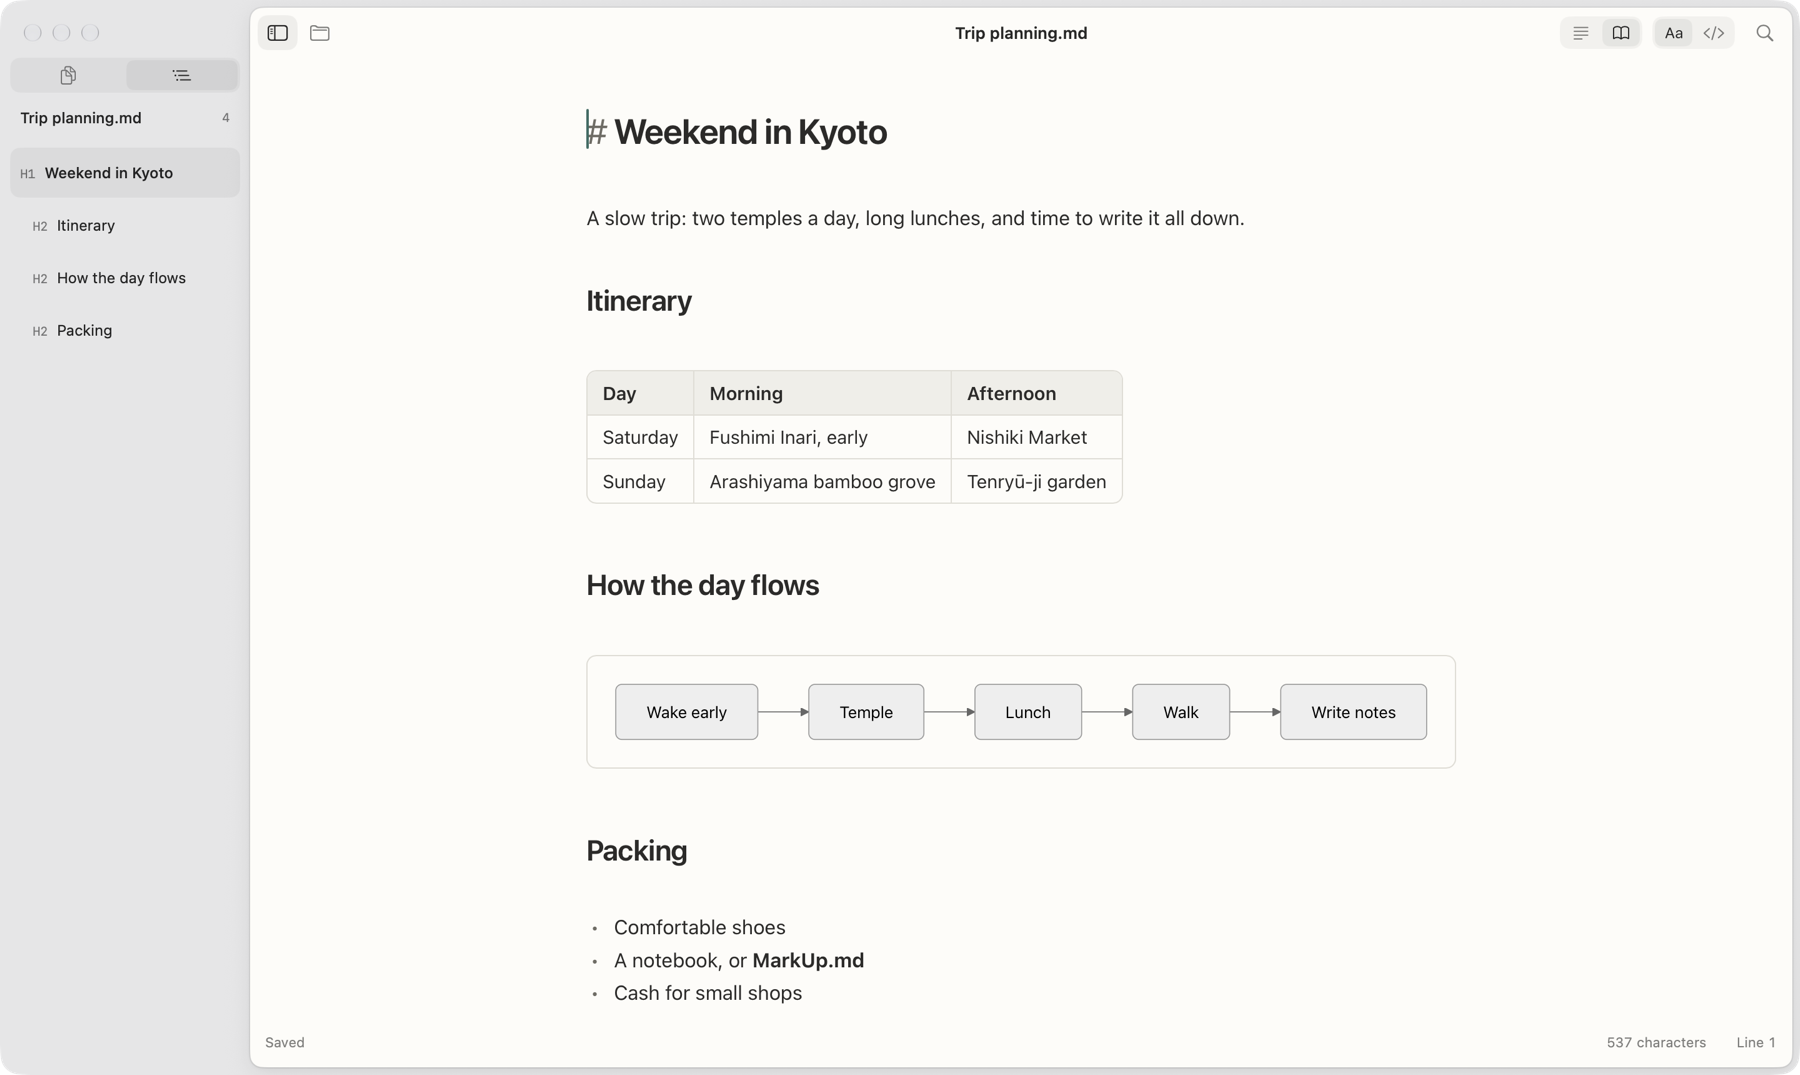
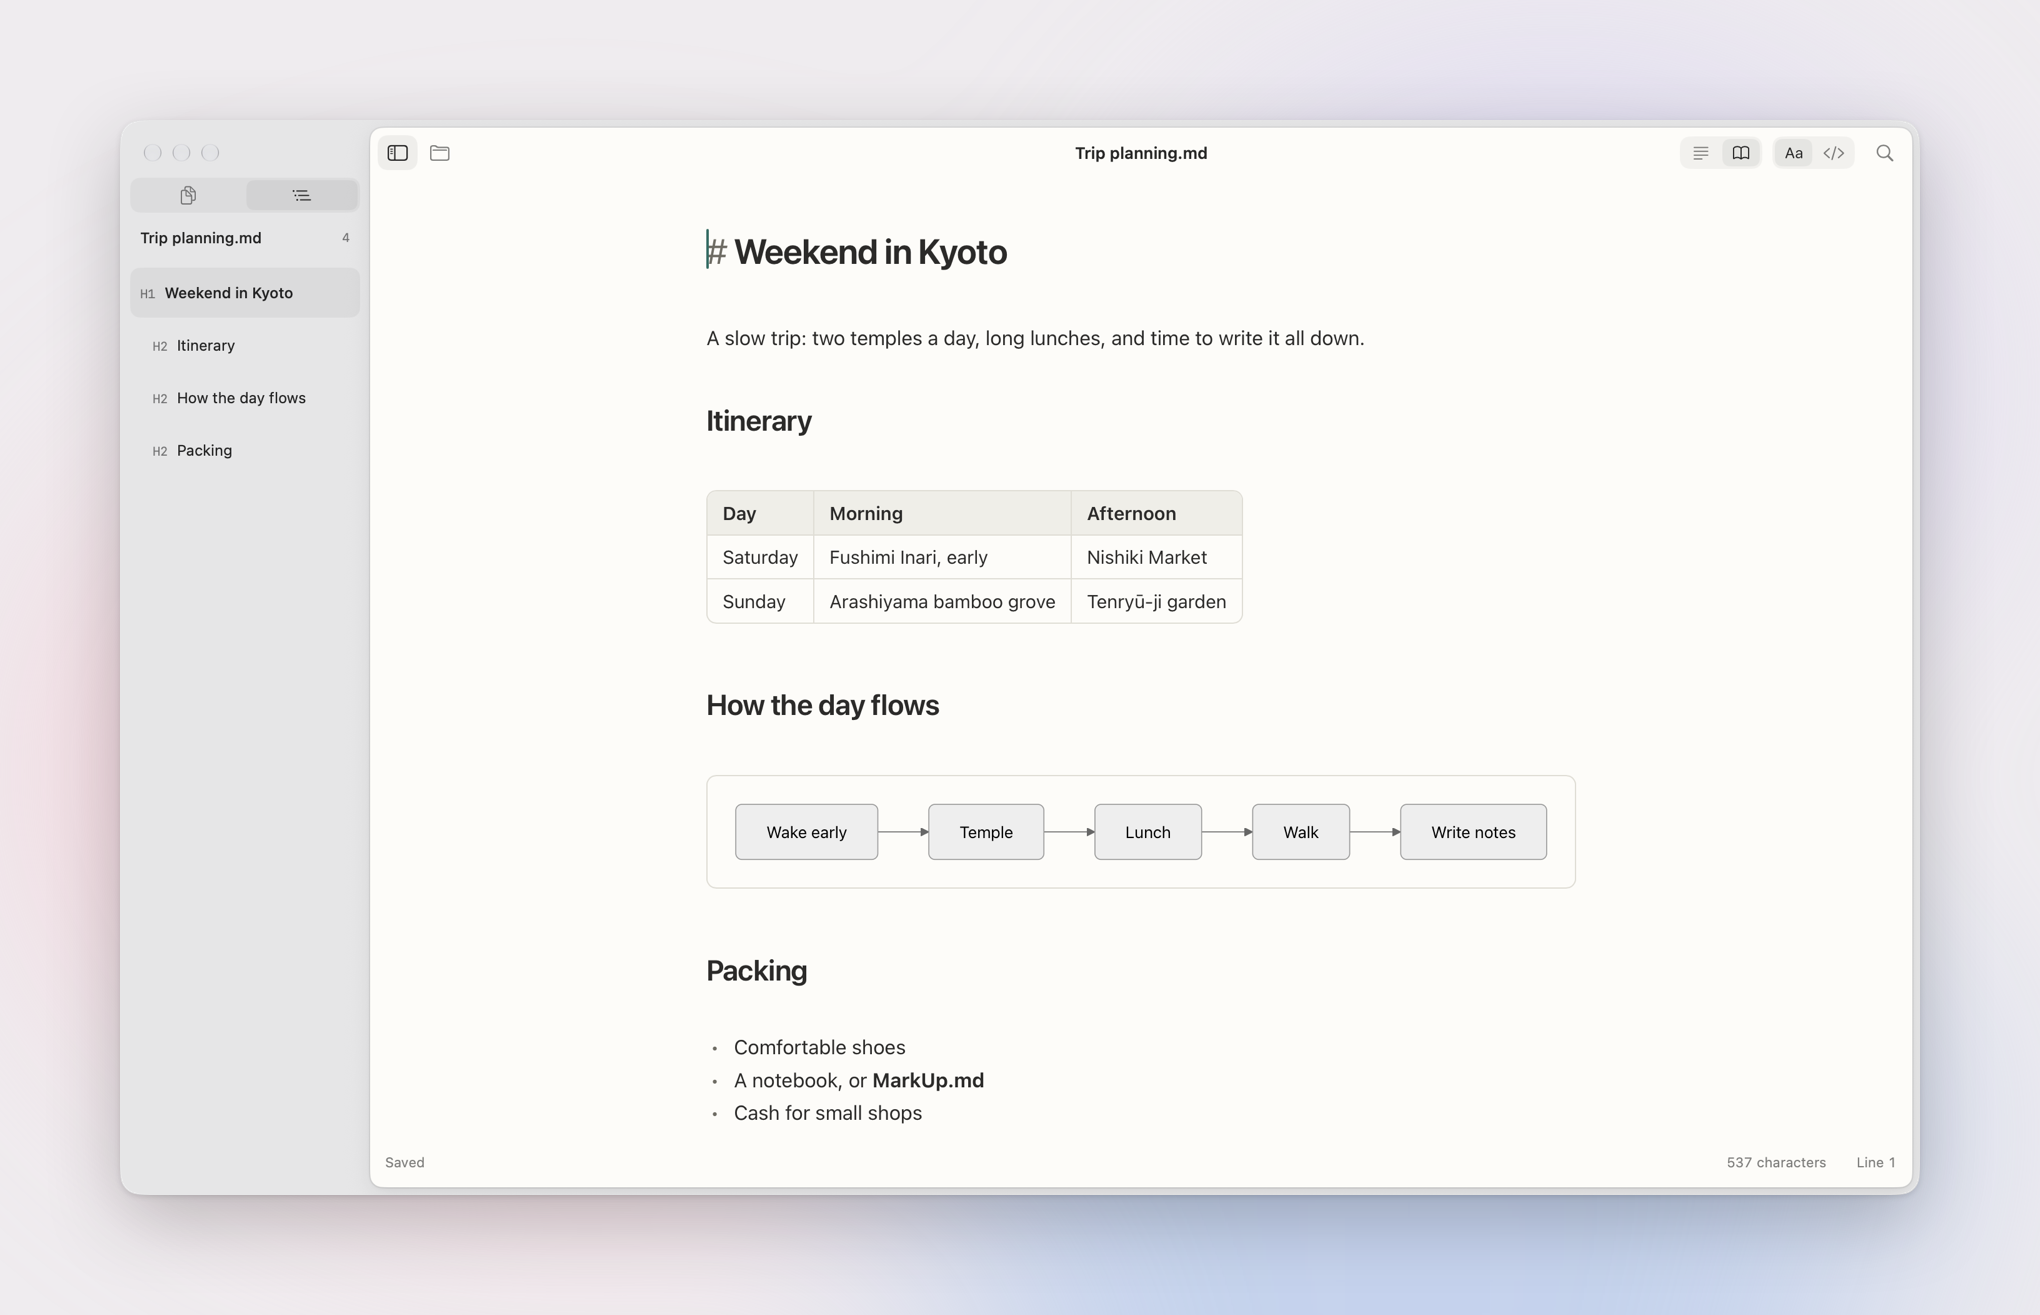
Auto-save, Resource-card installer window, README images on the light wallpaper

diff --git a/scripts/make-dmg-background.swift b/scripts/make-dmg-background.swift
@@ -1,29 +1,23 @@
-// Draws the installer window background: two raised pads (the app, the Applications folder) with an arrow between
-// them. Writes background.png (660×400) and background@2x.png (1320×800) into the given folder.
+// Draws the installer window background from the Figma "Resource card": a paper card with a teal rim, an open
+// stage where Finder shows the app and the Applications folder, then the instruction and the first-open note.
+// Writes background.png (612×416) and background@2x.png (1224×832) into the given folder.
 // Usage: swift scripts/make-dmg-background.swift <output folder>
 import AppKit
 
-let size = NSSize(width: 660, height: 400)
+// The card is drawn at half its Figma size (1224×831 at 2x).
+let size = NSSize(width: 612, height: 416)
 /// Icon centers, in window coordinates (origin top-left). package.sh positions the Finder icons at the same points.
-let appCenter = CGPoint(x: 170, y: 196)
-let folderCenter = CGPoint(x: 490, y: 196)
+let appCenter = CGPoint(x: 170, y: 160)
+let folderCenter = CGPoint(x: 442, y: 160)
 
-// The editor's neutrals (Editor/style.css, light): one warm hue, with the accent teal for the arrow.
 func color(_ hex: UInt32, _ alpha: CGFloat = 1) -> NSColor {
     NSColor(srgbRed: CGFloat((hex >> 16) & 0xff) / 255, green: CGFloat((hex >> 8) & 0xff) / 255, blue: CGFloat(hex & 0xff) / 255, alpha: alpha)
 }
-let paper = color(0xfdfcf9), pad = color(0xf7f5f0), ink = color(0x2f2e2c), muted = color(0x75726c), accent = color(0x3b6b66)
+let paper = color(0xfcfcf9), teal = color(0x3f5958)
 
 func serif(_ pointSize: CGFloat) -> NSFont {
     let base = NSFont.systemFont(ofSize: pointSize, weight: .regular)
     return base.fontDescriptor.withDesign(.serif).flatMap { NSFont(descriptor: $0, size: pointSize) } ?? base
-}
-
-func text(_ string: String, font: NSFont, color: NSColor, centerX: CGFloat, top: CGFloat) {
-    let attributes: [NSAttributedString.Key: Any] = [.font: font, .foregroundColor: color]
-    let s = NSAttributedString(string: string, attributes: attributes)
-    let w = s.size().width
-    s.draw(at: NSPoint(x: centerX - w / 2, y: top))
 }
 
 func render(scale: Int) -> Data {
@@ -31,43 +25,37 @@ func render(scale: Int) -> Data {
     rep.size = size   // points, so the 2x image carries 144 dpi
     let context = NSGraphicsContext(bitmapImageRep: rep)!
     NSGraphicsContext.saveGraphicsState()
-    NSGraphicsContext.current = context
     let cg = context.cgContext
     // Draw with a top-left origin, like Finder's window coordinates.
     cg.translateBy(x: 0, y: size.height); cg.scaleBy(x: 1, y: -1)
-    let flipped = NSGraphicsContext(cgContext: cg, flipped: true)
-    NSGraphicsContext.current = flipped
+    NSGraphicsContext.current = NSGraphicsContext(cgContext: cg, flipped: true)
 
-    paper.setFill(); NSRect(origin: .zero, size: size).fill()
+    // Behind the card's rounded corners, the window's own corners show the rim color.
+    teal.setFill(); NSRect(origin: .zero, size: size).fill()
+    // Rim: 3pt, with the paper inset by it and its corner concentric (20pt outer, 17pt inner).
+    let inner = NSRect(origin: .zero, size: size).insetBy(dx: 3, dy: 3)
+    paper.setFill(); NSBezierPath(roundedRect: inner, xRadius: 17, yRadius: 17).fill()
 
-    // Pads: a ring in place of a border, and a soft lift, with the card's concentric corner logic (24pt outer).
-    for center in [appCenter, folderCenter] {
-        let rect = CGRect(x: center.x - 100, y: center.y - 104, width: 200, height: 208)
-        let shape = NSBezierPath(roundedRect: rect, xRadius: 24, yRadius: 24)
-        cg.saveGState()
-        cg.setShadow(offset: CGSize(width: 0, height: -4), blur: 14, color: NSColor.black.withAlphaComponent(0.06).cgColor)
-        pad.setFill(); shape.fill()
-        cg.restoreGState()
-        cg.saveGState()
-        cg.setShadow(offset: CGSize(width: 0, height: -1), blur: 1.5, color: NSColor.black.withAlphaComponent(0.05).cgColor)
-        pad.setFill(); shape.fill()
-        cg.restoreGState()
-        NSColor.black.withAlphaComponent(0.06).setStroke()
-        let ring = NSBezierPath(roundedRect: rect.insetBy(dx: -0.5, dy: -0.5), xRadius: 24.5, yRadius: 24.5)
-        ring.lineWidth = 1; ring.stroke()
-    }
+    // Stage (320pt), then the 2pt divider in the rim color.
+    let stageBottom: CGFloat = 3 + 320
+    teal.setFill(); NSRect(x: 3, y: stageBottom, width: inner.width, height: 2).fill()
 
-    // Arrow: a round-capped line with an open chevron head, in the accent.
-    let y = appCenter.y - 4
-    let from: CGFloat = 288, to: CGFloat = 372
-    accent.setStroke()
-    let line = NSBezierPath(); line.lineWidth = 5; line.lineCapStyle = .round; line.lineJoinStyle = .round
-    line.move(to: NSPoint(x: from, y: y)); line.line(to: NSPoint(x: to, y: y)); line.stroke()
-    let head = NSBezierPath(); head.lineWidth = 5; head.lineCapStyle = .round; head.lineJoinStyle = .round
-    head.move(to: NSPoint(x: to - 15, y: y - 15)); head.line(to: NSPoint(x: to, y: y)); head.line(to: NSPoint(x: to - 15, y: y + 15)); head.stroke()
+    // Title, in the welcome screen's serif rather than the card's SF Pro.
+    let title = NSAttributedString(string: "Drag MarkUp.md to Applications", attributes: [.font: serif(23), .foregroundColor: teal])
+    title.draw(at: NSPoint(x: 3 + 31, y: stageBottom + 2 + 10))
 
-    text("Drag MarkUp.md to Applications", font: serif(26), color: ink, centerX: size.width / 2, top: 34)
-    text("First time opening? macOS asks for approval: System Settings → Privacy & Security → Open Anyway.", font: .systemFont(ofSize: 12), color: muted, centerX: size.width / 2, top: 356)
+    // Hairline rule, then the first-open note.
+    let ruleY = stageBottom + 2 + 46.5
+    color(0x000000, 0.15).setFill(); NSRect(x: 3, y: ruleY, width: inner.width, height: 0.5).fill()
+    // 11.5pt semibold in the card; stepped down until it fits between the side margins.
+    let noteText = "First time opening? macOS asks for approval: System Settings → Privacy & Security → Open Anyway."
+    var noteSize: CGFloat = 11.5
+    var note: NSAttributedString
+    repeat {
+        note = NSAttributedString(string: noteText, attributes: [.font: NSFont.systemFont(ofSize: noteSize, weight: .semibold), .foregroundColor: teal])
+        noteSize -= 0.25
+    } while note.size().width > inner.width - 62 && noteSize > 9
+    note.draw(at: NSPoint(x: 3 + 31, y: ruleY + 12))
 
     NSGraphicsContext.restoreGraphicsState()
     return rep.representation(using: .png, properties: [:])!

diff --git a/Sources/MarkUp/MarkUpApp.swift b/Sources/MarkUp/MarkUpApp.swift
@@ -32,6 +32,9 @@ struct MarkUpApp: App {
                 }
                 Text(document.tr("System menus and dialogs update after restarting MarkUp.md.", "系统菜单和对话框将在重新启动 MarkUp.md 后更新。"))
                     .font(.caption).foregroundStyle(.secondary)
+                Toggle(document.tr("Save changes automatically", "自动保存更改"), isOn: $document.autoSave)
+                Text(document.tr("Files you’ve saved once keep saving as you write. New documents still ask where to go.", "保存过的文件会在你写作时自动保存。新文稿仍需选择保存位置。"))
+                    .font(.caption).foregroundStyle(.secondary)
             }.padding(24).frame(width: 400)
                 .environment(\.locale, Locale(identifier: document.language.rawValue))
         }
@@ -250,6 +253,13 @@ final class EditorDocument: NSObject, ObservableObject, WKScriptMessageHandler, 
     private var bridgeReady = false
     private var pendingPresentation = false
     private var diskData: Data?
+    /// On by default: a document with a file saves itself shortly after typing stops, and before it is left.
+    @Published var autoSave = UserDefaults.standard.object(forKey: "autoSave") as? Bool ?? true {
+        didSet { UserDefaults.standard.set(autoSave, forKey: "autoSave") }
+    }
+    private var pendingAutoSave: Task<Void, Never>?
+    /// Typing pauses this long before a save, so a burst of keys writes once.
+    private static let autoSaveDelay: Duration = .seconds(1)
     private var composing = false
     var dirty: Bool { text != savedText }
     var title: String { fileURL?.lastPathComponent ?? tr("Untitled", "未命名") }
@@ -268,7 +278,7 @@ final class EditorDocument: NSObject, ObservableObject, WKScriptMessageHandler, 
                     drainOpenRequests()
                 } catch { report(error) }
             }
-        case "change": text = body["text"] as? String ?? text; updateTitle()
+        case "change": text = body["text"] as? String ?? text; updateTitle(); scheduleAutoSave()
         case "selection": line = body["line"] as? Int ?? 1
         case "outline":
             headings = (body["headings"] as? [[String: Any]] ?? []).compactMap {
@@ -413,6 +423,10 @@ final class EditorDocument: NSObject, ObservableObject, WKScriptMessageHandler, 
     func confirmDiscard() async -> Bool {
         do { _ = try await snapshot() } catch { report(error); return false }
         guard dirty else { return true }
+        // Leaving a file-backed document saves it, unless another app changed the file; then the user decides.
+        if canAutoSave {
+            do { if try await write() { return true } } catch { report(error); return false }
+        }
         let alert = NSAlert(); alert.messageText = tr("Save changes to “\(title)”?", "要保存对“\(title)”的修改吗？"); alert.informativeText = tr("Your unsaved changes will be lost.", "未保存的修改将会丢失。"); alert.addButton(withTitle: tr("Save", "保存")); alert.addButton(withTitle: tr("Cancel", "取消")); alert.addButton(withTitle: tr("Don’t Save", "不保存"))
         switch alert.runModal() {
         case .alertFirstButtonReturn: do { return try await write() } catch { report(error); return false }
@@ -420,6 +434,27 @@ final class EditorDocument: NSObject, ObservableObject, WKScriptMessageHandler, 
         default: return false
         }
     }
+    /// Auto-save never overwrites a file another app changed; that waits for a save the user asks for.
+    private var canAutoSave: Bool {
+        guard autoSave, let fileURL, let diskData else { return false }
+        return (try? Data(contentsOf: fileURL)) == diskData
+    }
+    private func scheduleAutoSave() {
+        pendingAutoSave?.cancel()
+        guard autoSave, fileURL != nil, dirty else { return }
+        pendingAutoSave = Task { [weak self] in
+            try? await Task.sleep(for: Self.autoSaveDelay)
+            guard !Task.isCancelled else { return }
+            self?.autoSaveNow()
+        }
+    }
+    /// Saves quietly: skipped while busy or mid-composition, and retried on the next change.
+    func autoSaveNow() {
+        pendingAutoSave?.cancel()
+        guard dirty, !busy, !composing, canAutoSave else { return }
+        perform { _ = try await self.write() }
+    }
+    func windowDidResignKey(_ notification: Notification) { autoSaveNow() }
     func windowShouldClose(_ sender: NSWindow) -> Bool {
         if allowClose { return true }
         guard !busy else { return false }

diff --git a/scripts/make-readme-images.swift b/scripts/make-readme-images.swift
@@ -1,0 +1,57 @@
+// Places each README screenshot on the light desktop wallpaper from the Figma file (Desktop — Sidebar open):
+// a warm grey with blurred rose, lilac and blue washes. Reads docs/images/captures/<name>.png, writes docs/images/<name>.png.
+// Usage: swift scripts/make-readme-images.swift
+import AppKit
+import CoreImage
+
+let root = URL(fileURLWithPath: FileManager.default.currentDirectoryPath)
+let captures = root.appendingPathComponent("docs/images/captures")
+let output = root.appendingPathComponent("docs/images")
+
+func color(_ hex: UInt32, _ alpha: CGFloat = 1) -> CGColor {
+    CGColor(srgbRed: CGFloat((hex >> 16) & 0xff) / 255, green: CGFloat((hex >> 8) & 0xff) / 255, blue: CGFloat(hex & 0xff) / 255, alpha: alpha)
+}
+/// The Figma desktop is 1440×960; washes are given in its coordinates (top-left origin) with a 90pt Gaussian blur.
+let design = CGSize(width: 1440, height: 960)
+let base = color(0xefecef)
+let washes: [(rect: CGRect, color: CGColor)] = [
+    (CGRect(x: 40, y: 280, width: 720, height: 560), color(0xf5c7d1, 0.75)),
+    (CGRect(x: 820, y: 60, width: 560, height: 460), color(0xd1ccf2, 0.6)),
+    (CGRect(x: 620, y: 600, width: 760, height: 420), color(0xa8c2eb, 0.6)),
+]
+
+func wallpaper(_ size: CGSize) -> CGImage {
+    let scale = max(size.width / design.width, size.height / design.height)
+    let space = CGColorSpace(name: CGColorSpace.sRGB)!
+    let ctx = CGContext(data: nil, width: Int(size.width), height: Int(size.height), bitsPerComponent: 8, bytesPerRow: 0, space: space, bitmapInfo: CGImageAlphaInfo.premultipliedLast.rawValue)!
+    // Centered crop of the scaled design, flipped to its top-left origin.
+    ctx.translateBy(x: (size.width - design.width * scale) / 2, y: size.height - (size.height - design.height * scale) / 2)
+    ctx.scaleBy(x: scale, y: -scale)
+    for wash in washes { ctx.setFillColor(wash.color); ctx.fillEllipse(in: wash.rect) }
+    let shapes = CIImage(cgImage: ctx.makeImage()!)
+    let blurred = shapes.clampedToExtent().applyingGaussianBlur(sigma: 90 * scale).cropped(to: shapes.extent)
+    let ci = CIContext(options: [.workingColorSpace: space])
+    let final = CGContext(data: nil, width: Int(size.width), height: Int(size.height), bitsPerComponent: 8, bytesPerRow: 0, space: space, bitmapInfo: CGImageAlphaInfo.premultipliedLast.rawValue)!
+    final.setFillColor(base); final.fill(CGRect(origin: .zero, size: size))
+    final.draw(ci.createCGImage(blurred, from: shapes.extent)!, in: CGRect(origin: .zero, size: size))
+    return final.makeImage()!
+}
+
+for name in ["screenshot", "welcome"] {
+    let source = captures.appendingPathComponent("\(name).png")
+    guard let window = NSImage(contentsOf: source)?.cgImage(forProposedRect: nil, context: nil, hints: nil) else {
+        FileHandle.standardError.write(Data("missing \(source.path)\n".utf8)); exit(1)
+    }
+    // Room around the window for the wallpaper to read and its shadow to fall, in capture pixels (2x).
+    let margin: CGFloat = 120
+    let size = CGSize(width: CGFloat(window.width) + margin * 2, height: CGFloat(window.height) + margin * 2)
+    let ctx = CGContext(data: nil, width: Int(size.width), height: Int(size.height), bitsPerComponent: 8, bytesPerRow: 0, space: CGColorSpace(name: CGColorSpace.sRGB)!, bitmapInfo: CGImageAlphaInfo.premultipliedLast.rawValue)!
+    ctx.draw(wallpaper(size), in: CGRect(origin: .zero, size: size))
+    let frame = CGRect(x: margin, y: margin, width: CGFloat(window.width), height: CGFloat(window.height))
+    // A macOS-like window shadow: wide and soft, plus a tight contact shadow.
+    ctx.saveGState(); ctx.setShadow(offset: CGSize(width: 0, height: -24), blur: 80, color: color(0x000000, 0.22)); ctx.draw(window, in: frame); ctx.restoreGState()
+    ctx.saveGState(); ctx.setShadow(offset: CGSize(width: 0, height: -2), blur: 6, color: color(0x000000, 0.12)); ctx.draw(window, in: frame); ctx.restoreGState()
+    let rep = NSBitmapImageRep(cgImage: ctx.makeImage()!)
+    try rep.representation(using: .png, properties: [:])!.write(to: output.appendingPathComponent("\(name).png"))
+    print("Wrote docs/images/\(name).png")
+}

diff --git a/docs/CHANGELOG.md b/docs/CHANGELOG.md
@@ -2,6 +2,8 @@
 
 ## Unreleased
 
+- Auto-save, on by default: a document that has a file saves about a second after you stop typing, and when you switch away, open another file, start a new one, close the window, or quit. Untitled documents still ask where to save. If another app changed the file, MarkUp.md doesn't overwrite it and asks on your next save. Turn it off in Settings.
+
 - The welcome screen now says “Hello”, then cycles through “Howdy”, “Aloha” and “Have you eaten?” in a shuffled order, each typed in after the previous one is backspaced, with a caret (in Chinese: 你好, 嗨, Aloha, 吃了吗？). With Reduce Motion on, the words swap without animation.
 - Added File › Close (⌘W), which was missing, and Find Next (⌘G) / Find Previous (⇧⌘G).
 - Added a start page for windows with no file open: a drop area with Open File… and New Document, then Pinned files and up to eight Recents, shown only while the sidebar (which lists them too) is hidden. The editing controls and tips stay hidden until a document opens. The first-run welcome still opens the Welcome guide instead.
